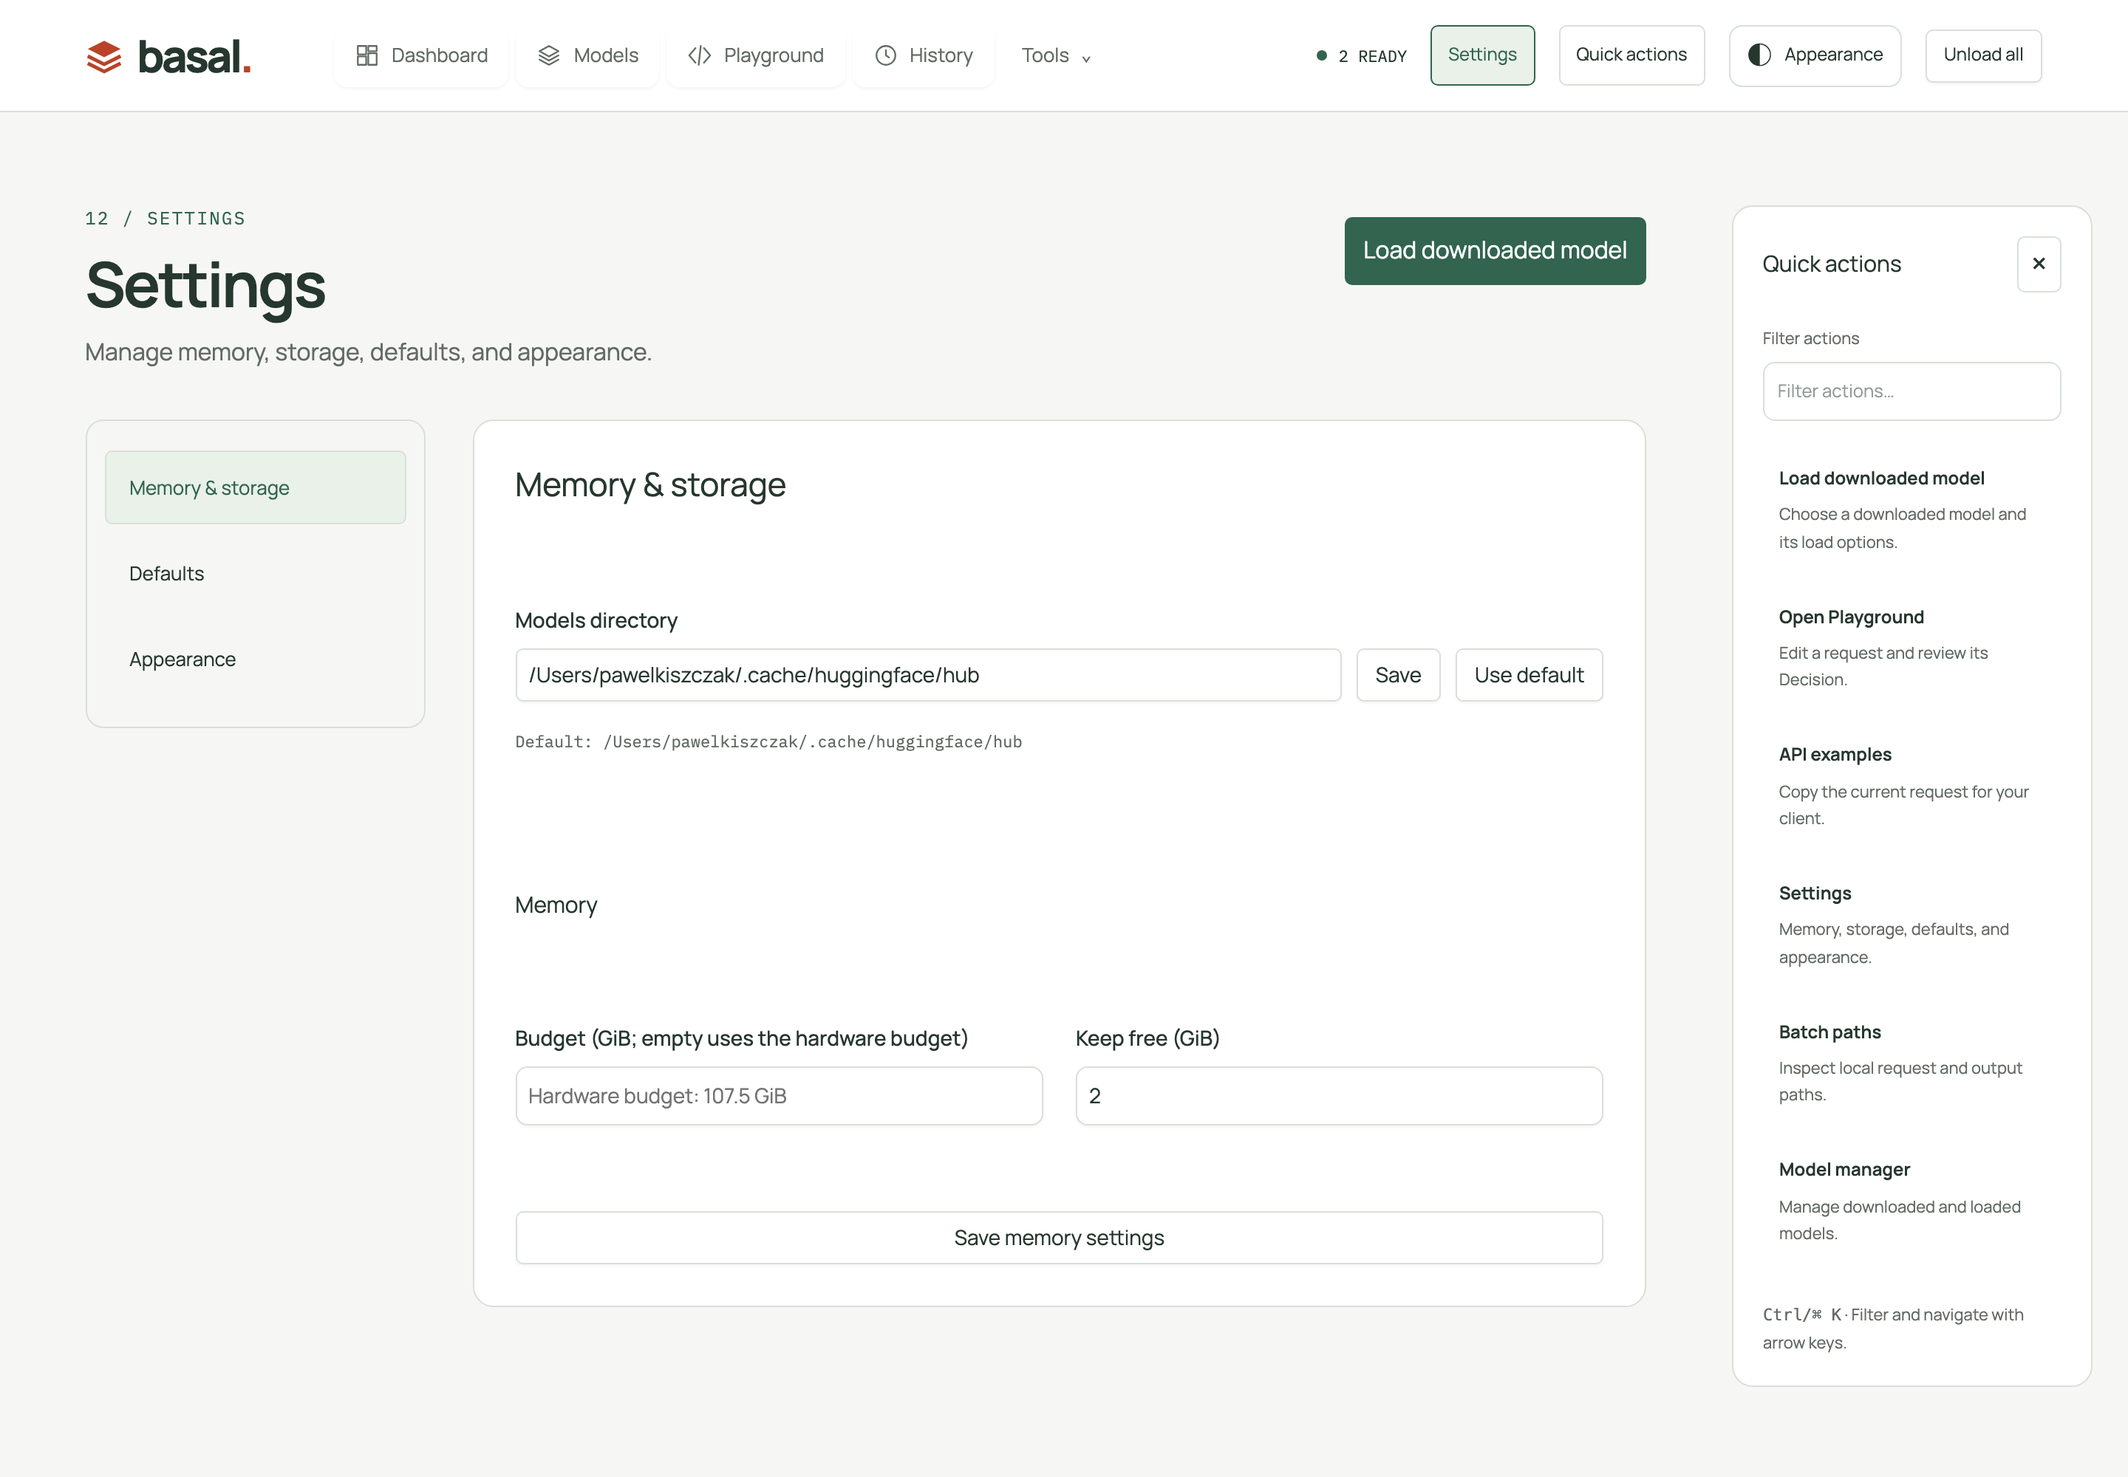
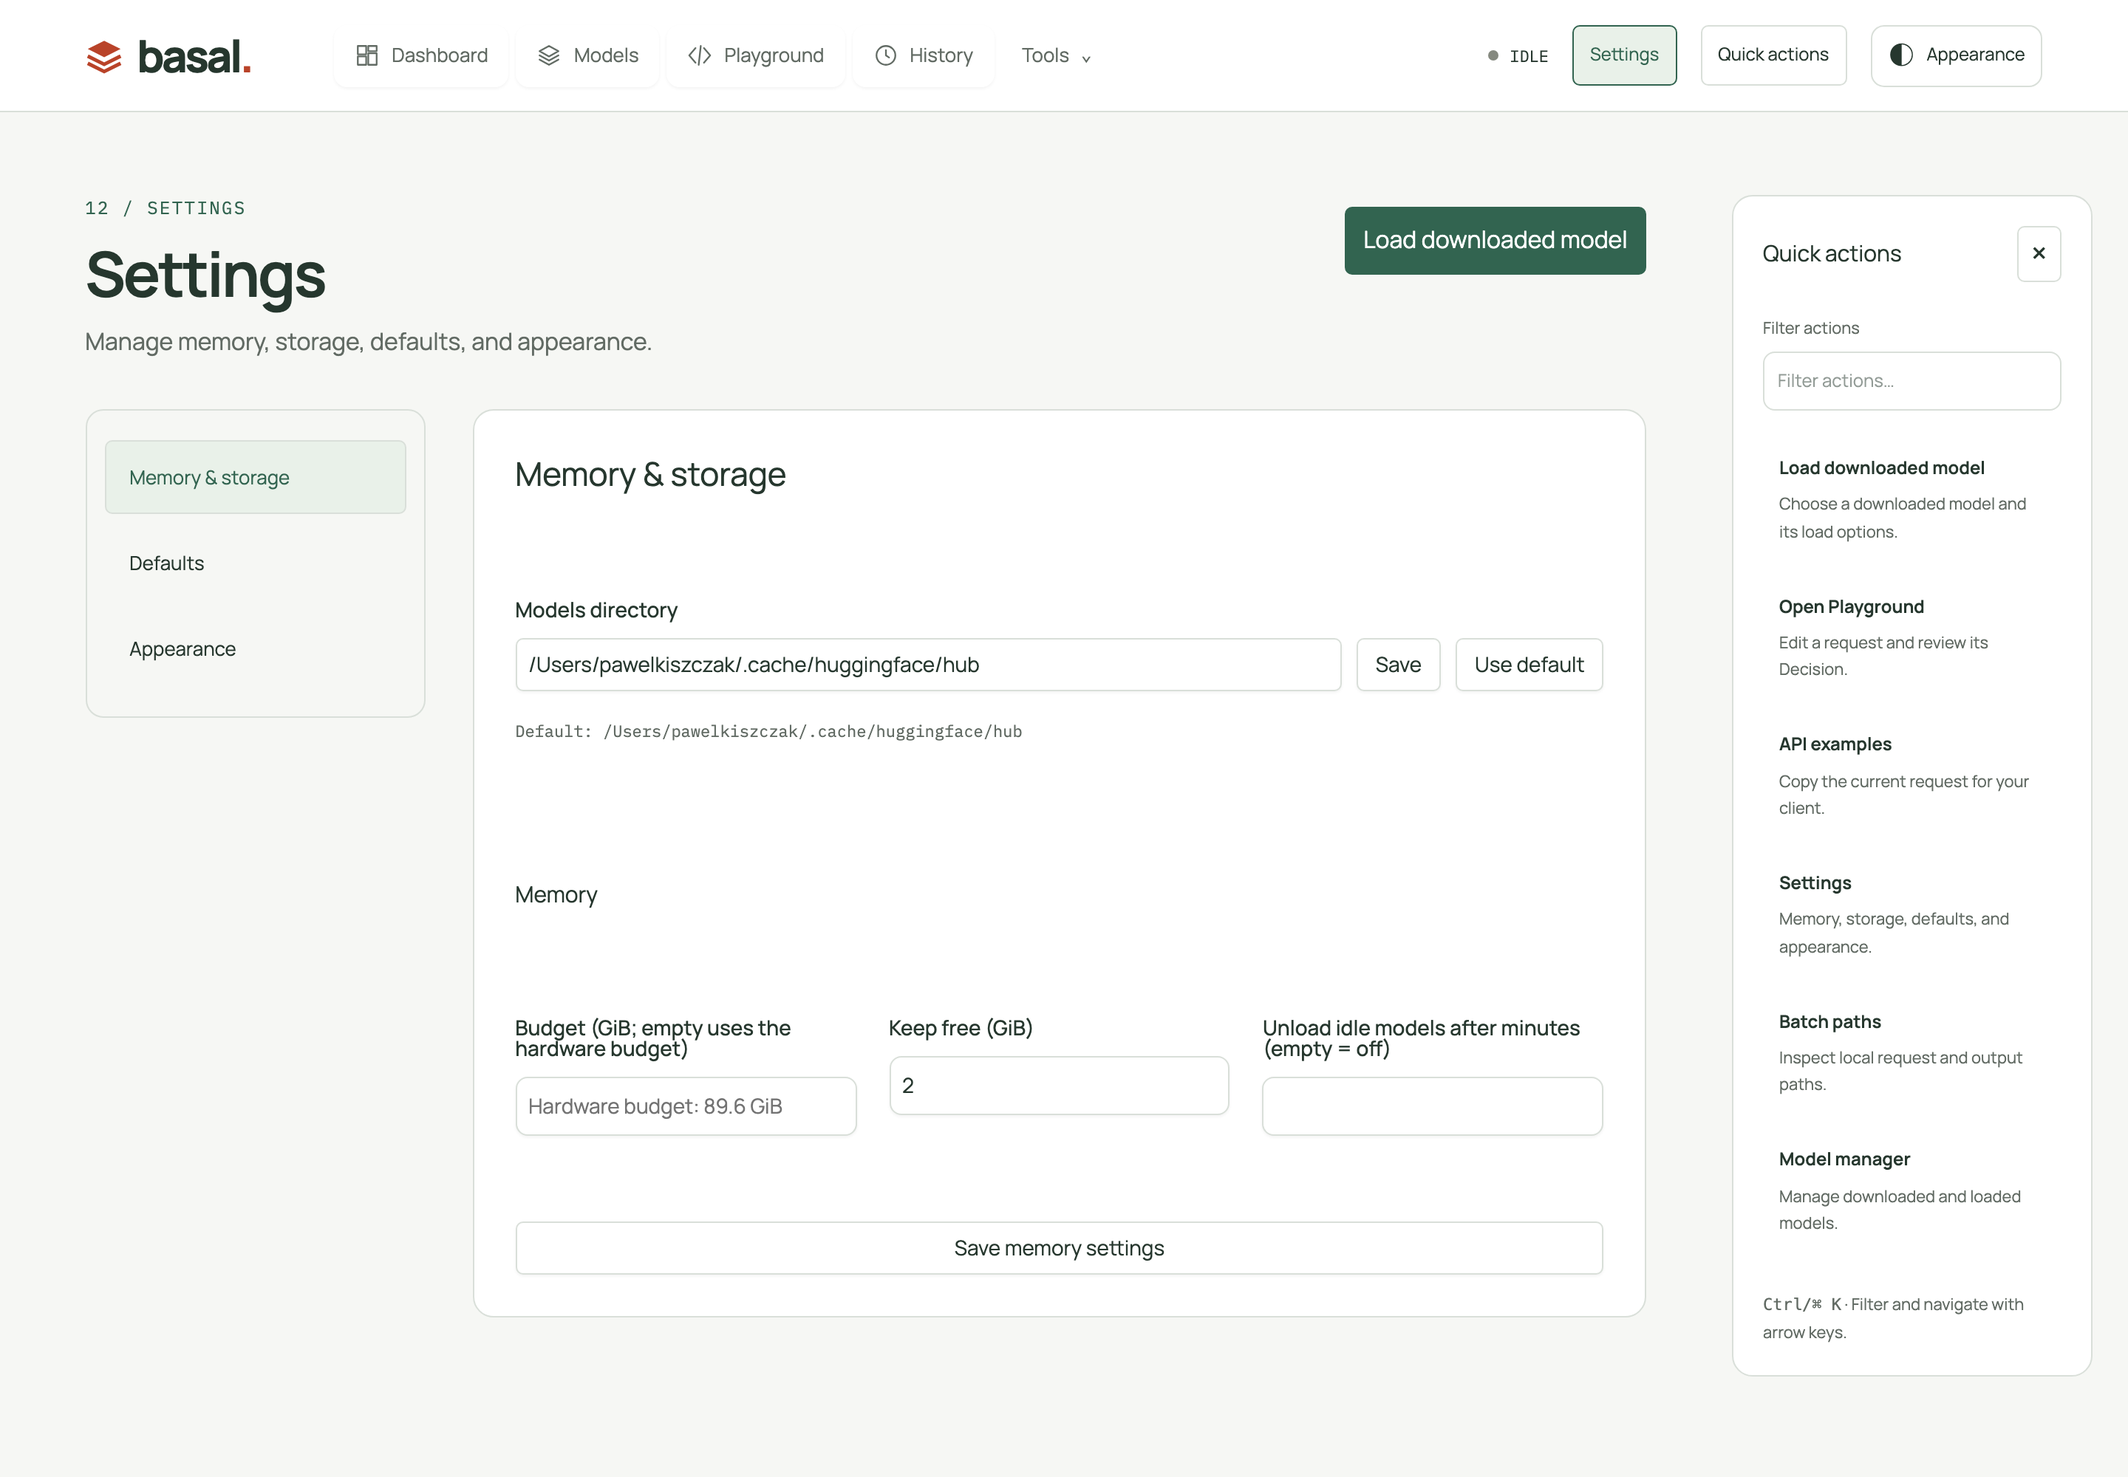
fix: address idle unload review findings

diff --git a/basal_ui/static/app.js b/basal_ui/static/app.js
@@ -1306,7 +1306,7 @@ function renderStatus(s) {
   renderDashboard();
   const models=s.models||[], ready=readyModels(), downloads=s.downloads||{}, repos=new Set(Object.keys(downloads));
   const finished=[...previousDownloads].some(repo=>!repos.has(repo)); previousDownloads=repos;
-  const signature=JSON.stringify([models.map(m=>[m.id,m.state]),downloads]);
+  const signature=JSON.stringify([models.map(m=>[m.id,m.state]),downloads,s.idle_unloads||{}]);
   if(finished)loadModels(); else if(signature!==rowsSignature)rerenderFilters();  // loaded chips and download progress in the model lists
   rowsSignature=signature;
   if(!ready.some(m=>m.id===selectedModel)&&ready.length)selectedModel=ready[0].id;
@@ -1321,7 +1321,6 @@ function renderStatus(s) {
   $('#footerUnload').hidden=!models.length; $('#footerUnload').textContent=models.length>1?t('Unload all'):t('Unload');
   renderMemoryBar(s.memory||{},models);
   renderLoadedRows(models);
-  renderDiskModels();
   renderManagerSummary();
   if($('#modelLoaderDialog').open)renderModelLoader();
   renderInference(s);

diff --git a/basal_ui/static/dashboard.js b/basal_ui/static/dashboard.js
@@ -119,11 +119,6 @@
       [number(row.requests),number(row.requests_per_s,true),number(row.p95_ms),number(row.errors)].forEach((value,column)=>text(node.children[column+1],value));
       if(container.children[index]!==node)container.insertBefore(node,container.children[index]||null);
     });
-    idle.forEach(([id,reason])=>{
-      existing.get(id)?.remove(); existing.delete(id);
-      const node=document.createElement('article');node.className='traffic-model';node.dataset.model=id;node.dataset.idle='1';container.appendChild(node);
-      node.textContent=`${id}: ${t('Unloaded after {minutes} idle minutes at {time}',{minutes:reason.minutes,time:new Date(reason.at*1000).toLocaleString()})}`;
-    });
     existing.forEach(node=>node.remove());
   }
 

diff --git a/tests/test_ui_app.py b/tests/test_ui_app.py
@@ -1203,13 +1203,13 @@ def test_idle_unload_lifecycle(tmp_path, monkeypatch, instant_start):
         runner.base_url = "http://localhost"
         assert client.put("/api/memory", json={"idle_unload_minutes": 0}).status_code == 400
         assert client.put("/api/memory", json={"idle_unload_minutes": None}).status_code == 200
-        fleet.unload_idle(runner.last_used + 61)
+        fleet.unload_idle(max(runner.last_used, fleet.idle_settings_changed) + 61)
         assert "mini" in states(client)
         assert client.put("/api/memory", json={"idle_unload_minutes": 1}).status_code == 200
         with fleet.lease("mini"):
-            fleet.unload_idle(runner.last_used + 61)
+            fleet.unload_idle(max(runner.last_used, fleet.idle_settings_changed) + 61)
             assert "mini" in states(client)
-        fleet.unload_idle(runner.last_used + 61)
+        fleet.unload_idle(max(runner.last_used, fleet.idle_settings_changed) + 61)
         assert "mini" not in states(client)
         assert client.get("/api/status").json()["idle_unloads"]["mini"]["code"] == "idle_unload"
         assert settings.last_models()[0]["id"] == "mini"
@@ -1231,7 +1231,7 @@ def test_idle_unload_rechecks_health_and_timeout(tmp_path, monkeypatch, instant_
         wait_for(lambda: states(client).get("mini") == "ready")
         runner = fleet.runners["mini"]
         runner.base_url = "http://localhost"
-        now = runner.last_used + 61
+        now = max(runner.last_used, fleet.idle_settings_changed) + 61
         for counters in ({"running": 1, "queued": 0}, {"running": 0, "queued": 1}, {"running": None, "queued": 0}):
             health.update(counters)
             fleet.unload_idle(now)
@@ -1245,3 +1245,71 @@ def test_idle_unload_rechecks_health_and_timeout(tmp_path, monkeypatch, instant_
         monkeypatch.setattr("basal_ui.fleet.httpx.get", disable_during_health)
         fleet.unload_idle(now)
         assert "mini" in states(client)
+
+
+def test_idle_timeout_changes_restart_countdown(tmp_path, monkeypatch, instant_start):
+    app, fleet = app_for(tmp_path, [MINI])
+    monkeypatch.setattr(
+        "basal_ui.fleet.httpx.get",
+        lambda *a, **k: httpx.Response(
+            200,
+            json={"status": "ok", "running": 0, "queued": 0},
+            request=httpx.Request("GET", "http://localhost/health"),
+        ),
+    )
+    with TestClient(app, base_url="http://127.0.0.1") as client:
+        client.post("/api/load", json={"id": "mini"})
+        wait_for(lambda: states(client).get("mini") == "ready")
+        runner = fleet.runners["mini"]
+        runner.base_url = "http://localhost"
+        runner.last_used -= 600
+        for minutes in (3, 1):
+            assert client.put("/api/memory", json={"idle_unload_minutes": minutes}).status_code == 200
+            deadline = fleet.idle_settings_changed + minutes * 60
+            fleet.unload_idle(deadline - 0.001)
+            assert "mini" in states(client)
+        fleet.unload_idle(deadline)
+        assert "mini" not in states(client)
+
+
+def test_idle_unload_releases_fleet_lock_while_terminating(tmp_path, monkeypatch, instant_start):
+    app, fleet = app_for(tmp_path, [MINI])
+    monkeypatch.setattr(
+        "basal_ui.fleet.httpx.get",
+        lambda *a, **k: httpx.Response(
+            200,
+            json={"status": "ok", "running": 0, "queued": 0},
+            request=httpx.Request("GET", "http://localhost/health"),
+        ),
+    )
+    entered, release = threading.Event(), threading.Event()
+
+    def terminate(proc):
+        entered.set()
+        assert release.wait(5)
+
+    with TestClient(app, base_url="http://127.0.0.1") as client:
+        client.post("/api/load", json={"id": "mini"})
+        wait_for(lambda: states(client).get("mini") == "ready")
+        client.put("/api/memory", json={"idle_unload_minutes": 1})
+        runner = fleet.runners["mini"]
+        runner.base_url = "http://localhost"
+        runner.est_memory_bytes = 123
+        monkeypatch.setattr(Runner, "_terminate", staticmethod(terminate))
+        worker = threading.Thread(target=fleet.unload_idle, args=(fleet.idle_settings_changed + 60,))
+        worker.start()
+        try:
+            assert entered.wait(3)
+            assert fleet.lock.acquire(timeout=1)
+            try:
+                assert "mini" not in fleet.runners
+                assert fleet.retiring[runner] == 123
+            finally:
+                fleet.lock.release()
+            with pytest.raises(KeyError), fleet.lease("mini"):
+                pass
+        finally:
+            release.set()
+            worker.join(5)
+        assert not worker.is_alive()
+        assert runner not in fleet.retiring

diff --git a/basal_ui/fleet.py b/basal_ui/fleet.py
@@ -503,6 +503,7 @@ class Fleet:
         self._rss_cache = (0.0, {})
         self.idle_unloads = {}
         self.idle_settings_generation = 0
+        self.idle_settings_changed = 0.0
         self.idle_stop = threading.Event()
         self.idle_thread = None
 
@@ -667,26 +668,31 @@ class Fleet:
                 raise RuntimeError("model is unavailable during maintenance")
             retiring = []
             for i in ids:
-                runner = self.runners.pop(i)
-                # detach under the fleet lock: the old load can no longer reach ready and remember itself after
-                # forget_loaded; its memory stays committed until the child is gone (a new load must wait for it)
-                proc, est = runner.detach()
-                retiring.append((runner, proc))
-                self.retiring[runner] = est
-                if forget:
-                    self.settings_mod.forget_loaded(i)
+                retiring.append(self._detach_runner(i, forget))
             self._prune_logs()
         for i, (runner, proc) in zip(ids, retiring, strict=True):
-            Runner._terminate(proc)
-            with self.lock:
-                self.retiring.pop(runner, None)
-            self.event("info", f"unloaded: {i}")
+            self._finish_unload(i, runner, proc)
         if model_id is None:  # every model: the private children of jobs too (their job then fails)
             with self.lock:
                 temporary = list(self.temporary)
             for kind in temporary:
                 self.stop_temporary(kind)
         return self.status()
+
+    def _detach_runner(self, model_id, forget):
+        # Caller holds the fleet lock; retiring memory stays reserved until termination finishes.
+        runner = self.runners.pop(model_id)
+        proc, est = runner.detach()
+        self.retiring[runner] = est
+        if forget:
+            self.settings_mod.forget_loaded(model_id)
+        return runner, proc
+
+    def _finish_unload(self, model_id, runner, proc):
+        Runner._terminate(proc)
+        with self.lock:
+            self.retiring.pop(runner, None)
+        self.event("info", f"unloaded: {model_id}")
 
     def start_idle_timer(self):
         self.idle_stop.clear()
@@ -718,7 +724,7 @@ class Fleet:
                     or runner.temporary
                     or runner.state != "ready"
                     or runner.last_used is None
-                    or now - runner.last_used < timeout * 60
+                    or now - max(runner.last_used, self.idle_settings_changed) < timeout * 60
                     or not runner.base_url
                 ):
                     continue
@@ -745,7 +751,7 @@ class Fleet:
                     or self.idle_settings_generation != settings_generation
                     or runner.state != "ready"
                     or runner.last_used != last_used
-                    or now - runner.last_used < timeout * 60
+                    or now - max(runner.last_used, self.idle_settings_changed) < timeout * 60
                     or type(health.get("running")) is not int
                     or health["running"] != 0
                     or type(health.get("queued")) is not int
@@ -755,8 +761,10 @@ class Fleet:
                 message = f"unloaded after {timeout} idle minutes"
                 runner.log.append(message)
                 self.idle_unloads[model_id] = {"code": "idle_unload", "minutes": timeout, "at": time.time()}
-                self.unload(model_id, forget=False)
-                self.event("info", f"{model_id}: {message}")
+                detached, proc = self._detach_runner(model_id, forget=False)
+                self._prune_logs()
+            self._finish_unload(model_id, detached, proc)
+            self.event("info", f"{model_id}: {message}")
 
     def restart(self, assessment, media=False, options=None):
         """Unload and load again; options None keeps the running child's load options. The model stays in maintenance

diff --git a/tests/e2e/test_pages.py b/tests/e2e/test_pages.py
@@ -157,6 +157,25 @@ def test_dashboard_default_records_real_decisions_and_resets_model_traffic(brows
         sync_api.expect(endpoint_row).to_contain_text("POST")
         sync_api.expect(endpoint_row).to_contain_text("1")
 
+        def idle_status(route):
+            response = route.fetch()
+            status = response.json()
+            status["models"] = [model for model in status["models"] if model["id"] != model_id]
+            status["idle_unloads"] = {model_id: {"code": "idle_unload", "minutes": 1, "at": 1_700_000_000}}
+            route.fulfill(response=response, json=status)
+
+        page.route("**/api/status", idle_status)
+        sync_api.expect(page.locator("#trafficModels")).to_contain_text("Unloaded after 1 idle minutes", timeout=WAIT)
+        sync_api.expect(endpoint_row).to_be_visible()
+        manager_tab(page, "library")
+        sync_api.expect(page.locator("#diskModels")).to_contain_text("Unloaded after 1 idle minutes")
+        disk_button = page.locator("#diskModels .model-card-open").first
+        disk_button.focus()
+        page.wait_for_timeout(2500)
+        sync_api.expect(disk_button).to_be_focused()
+        view(page, "dashboard")
+        page.unroute_all(behavior="wait")
+
         page.select_option("#trafficWindow", "60")
         sync_api.expect(page.locator("#traffic-requests")).not_to_have_text("—", timeout=WAIT)
         sync_api.expect(page.locator("#traffic-requests-note")).to_contain_text("1")

diff --git a/basal_ui/app.py b/basal_ui/app.py
@@ -368,9 +368,11 @@ def create_app(
     def put_memory(body: dict = Body(...)):
         try:
             with fleet.lock:
-                settings_mod.update_memory(body)
-                if "idle_unload_minutes" in body:
+                old_timeout = settings_mod.memory_settings()["idle_unload_minutes"]
+                updated = settings_mod.update_memory(body)
+                if updated["idle_unload_minutes"] != old_timeout:
                     fleet.idle_settings_generation += 1
+                    fleet.idle_settings_changed = time.monotonic()
         except ValueError as exc:
             raise HTTPException(400, str(exc)) from exc
         return get_memory()

diff --git a/docs/USAGE.md b/docs/USAGE.md
@@ -317,7 +317,7 @@ keep free; unload a model or raise the budget. The Manager Library bar shows eac
 estimates and the memory available now. On Apple Silicon, MLX and MPS allocations live in unified memory and may show
 only partly as resident memory; the estimate is what the budget check uses.
 
-Optionally set **Unload idle models after minutes** in **Settings → Memory & storage** (empty means off; minimum 1 minute). A ready model is unloaded after that long without a Decision only when its server reports no running or queued work. Batch and other model jobs keep their models loaded while they run. Idle-unloaded models remain remembered for auto-load at the next start; requests return the existing model-not-loaded error until then. The Library, Dashboard and model log show the reason.
+Optionally set **Unload idle models after minutes** in **Settings → Memory & storage** (empty means off; minimum 1 minute). A ready model is unloaded after that long without a Decision only when its server reports no running or queued work. Changing the timeout starts a fresh countdown for models already loaded. Batch and other model jobs keep their models loaded while they run. Idle-unloaded models remain remembered for auto-load at the next start; requests return the existing model-not-loaded error until then. The Library, Dashboard and model log show the reason.
 
 ## Statistics and benchmarks
 

diff --git a/docs/API.md b/docs/API.md
@@ -13,7 +13,7 @@ only on a host whose users you trust. Backend URLs and interpreters set in a mod
 
 ## Local app management API
 
-`GET /api/memory` and `PUT /api/memory` expose `idle_unload_minutes` under memory settings: `null` disables idle unloading (default), otherwise an integer of at least 1 is required. `GET /api/status` reports idle unloads in `idle_unloads`, keyed by model ID with `code` (`idle_unload`), `minutes` and Unix time `at`; a new load clears its entry. Idle unloading keeps remembered models and does not reload on a request.
+`GET /api/memory` and `PUT /api/memory` expose `idle_unload_minutes` under memory settings: `null` disables idle unloading (default), otherwise an integer of at least 1 is required. Changing the timeout starts a fresh countdown for already-loaded models. `GET /api/status` reports idle unloads in `idle_unloads`, keyed by model ID with `code` (`idle_unload`), `minutes` and Unix time `at`; a new load clears its entry. Idle unloading keeps remembered models and does not reload on a request.
 
 
 These routes live on the **UI port** (default `7860`), not the external API-server gateway port.
